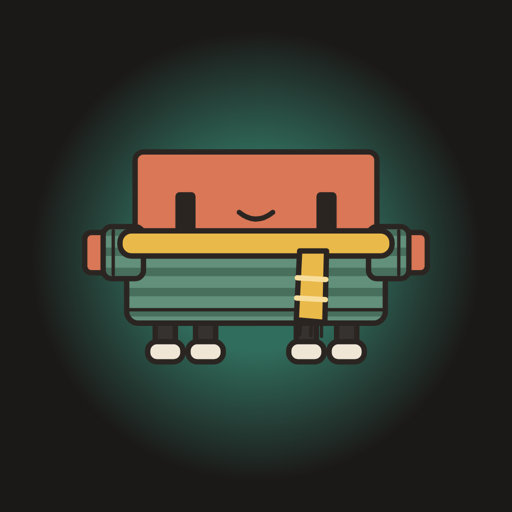
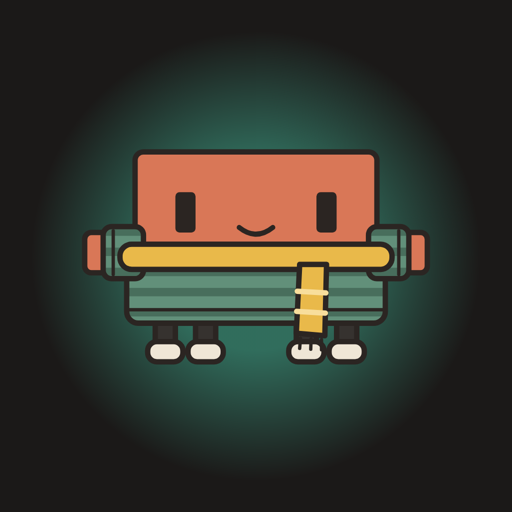
Add files via upload

Changed region(s): [[0.2188, 0.4062, 0.7812, 0.6875]]

diff --git a/index.html b/index.html
@@ -547,7 +547,7 @@ button:focus-visible, input:focus-visible { outline: 2px solid var(--focus); out
   }
   const legsAll = (f) => [0, 1, 2, 3].map((i) => legCol(i, f)).join("");
   const eyes = () => `<g class="eyes"><rect x="72" y="94" width="12" height="24" rx="2.5" fill="${INK}"/><rect x="156" y="94" width="12" height="24" rx="2.5" fill="${INK}"/></g>`;
-  const smile = () => L("M110 106 Q120 114 130 106", 3);
+  const smile = () => L("M110 115 Q120 123 130 115", 3);
   const sweat = () => `<g class="sweat"><path d="M204 68 Q211 79 211 84 A7 7 0 0 1 197 84 Q197 79 204 68 Z" fill="#9cd0f0" stroke="${INK}" stroke-width="2.4" stroke-linejoin="round"/></g>`;
 
   const torso = (fill, top, bottom) => R(43, top, 154, bottom - top, fill, 7);
@@ -556,11 +556,11 @@ button:focus-visible, input:focus-visible { outline: 2px solid var(--focus); out
   const mitten = (c, x = 13) => R(x, 115.5, 20, 29, c, 8);
 
   const scarf = (c, s) =>
-    R(39, 117, 162, 15, c, 7) +
-    P("M146 129 L144 170 L161 171.5 L162 129 Z", c) +
-    L("M144.6 145 L161.6 146 M144.2 157 L161.3 158", 3.2, s, 'stroke-linecap="butt"') +
-    L("M146.5 173 L146 179 M152.8 173.5 L152.6 179.5 M159 173.8 L159 179.8", 2);
-  const collar = (c) => R(41, 116, 158, 19, c, 9.5);
+    R(39, 125, 162, 15, c, 7) +
+    P("M146 137 L144 178 L161 179.5 L162 137 Z", c) +
+    L("M144.6 153 L161.6 154 M144.2 165 L161.3 166", 3.2, s, 'stroke-linecap="butt"') +
+    L("M146.5 181 L146 187 M152.8 181.5 L152.6 187.5 M159 181.8 L159 187.8", 2);
+  const collar = (c) => R(41, 124, 158, 19, c, 9.5);
   const beanie = (c, cuff, pom) =>
     P("M46 86 Q46 42 120 40 Q194 42 194 86 Z", c) +
     L("M78 54 Q76 66 78 78 M100 47 Q98 60 100 76 M140 47 Q142 60 140 76 M162 54 Q164 66 162 78", 1.8, cuff) +
@@ -605,32 +605,32 @@ button:focus-visible, input:focus-visible { outline: 2px solid var(--focus); out
 
     if (t === "bundle") {
       f = { leg: C.pufferPants, foot: "boot", footC: C.pufferBoots, bootTop: 176 };
-      top = torso(C.puffer, 122, 182) + L("M44 142 L196 142 M44 162 L196 162", 2.2) + L("M120 135 L120 181", 2);
+      top = torso(C.puffer, 126, 182) + L("M44 142 L196 142 M44 162 L196 162", 2.2) + L("M120 135 L120 181", 2);
       sleeves = both(R(23, 114.5, 30, 31, C.puffer, 9) + L("M38 116 L38 144", 2) + mitten(C.mitten));
       grip = mitten(C.mitten, 207);
       neck = collar(C.puffer);
       if (!umb) hat = beanie(C.hat, C.hatCuff, C.pom);
     } else if (raincoat) {
       f = { leg: C.darkPants, foot: "boot", footC: C.rainBoots, bootTop: 172 };
-      top = torso(C.rain, 122, 180) + L("M120 124 L120 180", 2) +
+      top = torso(C.rain, 126, 180) + L("M120 128 L120 180", 2) +
         `<rect x="124" y="138" width="10" height="4.5" rx="2" fill="${C.rainDark}"/><rect x="124" y="152" width="10" height="4.5" rx="2" fill="${C.rainDark}"/><rect x="124" y="166" width="10" height="4.5" rx="2" fill="${C.rainDark}"/>` +
         P("M54 156 L80 156 L80 163 Q67 166 54 163 Z", C.rain) + P("M160 156 L186 156 L186 163 Q173 166 160 163 Z", C.rain);
       sleeves = both(sleeveLong(C.rain));
       if (t === "coat") neck = scarf(C.scarfCream, C.scarfRed);
     } else if (t === "coat") {
       f = { leg: C.darkPants, foot: "boot", footC: C.brownBoots, bootTop: 176 };
-      top = torso(C.coat, 124, 184) + L("M102 124 L120 148 L138 124", 2.2) + L("M121 148 L122 183", 2, C.coatLine) +
+      top = torso(C.coat, 126, 184) + L("M102 126 L120 150 L138 126", 2.2) + L("M121 148 L122 183", 2, C.coatLine) +
         `<circle cx="131" cy="158" r="3" fill="${C.coatBtn}"/><circle cx="131" cy="173" r="3" fill="${C.coatBtn}"/>` +
         L("M58 168 L82 169 M158 169 L182 168", 2.4, C.coatLine);
       sleeves = both(sleeveLong(C.coat, C.coatLine));
       neck = scarf(C.scarfCream, C.scarfRed);
     } else if (t === "sweater") {
-      top = torso("url(#knit)", 124, 172) + L("M44 164 L196 164", 2);
+      top = torso("url(#knit)", 126, 172) + L("M44 164 L196 164", 2);
       sleeves = both(sleeveLong("url(#knit)"));
       neck = scarf(C.mustard, C.mustardStripe);
     } else if (t === "light") {
       f = { leg: C.jeans, foot: "sneaker", footC: C.white };
-      top = torso(C.denim, 124, 172) + R(104, 123, 32, 49, C.tee, 2) +
+      top = torso(C.denim, 126, 172) + R(104, 125, 32, 47, C.tee, 2) +
         `<rect x="58" y="134" width="20" height="13" rx="2" fill="none" stroke="${C.denimDark}" stroke-width="2"/><rect x="162" y="134" width="20" height="13" rx="2" fill="none" stroke="${C.denimDark}" stroke-width="2"/>` +
         L("M45 164 L102 164 M138 164 L195 164", 2, C.denimDark);
       sleeves = both(sleeveLong(C.denim, C.denimDark));
@@ -646,7 +646,7 @@ button:focus-visible, input:focus-visible { outline: 2px solid var(--focus); out
         foot: umb ? "boot" : hot ? "sandal" : "sneaker",
         footC: umb ? C.rainBoots : hot ? C.sandal : C.white, bootTop: 176
       };
-      top = torso(hot ? C.yellow : C.sky, 124, 168);
+      top = torso(hot ? C.yellow : C.sky, 126, 168);
       sleeves = both(sleeveShort(hot ? C.yellow : C.sky));
       if (!umb && hot) hat = bucketHat(C.straw, C.hatBand);
       glasses = !umb && (hot || o.sunny);
